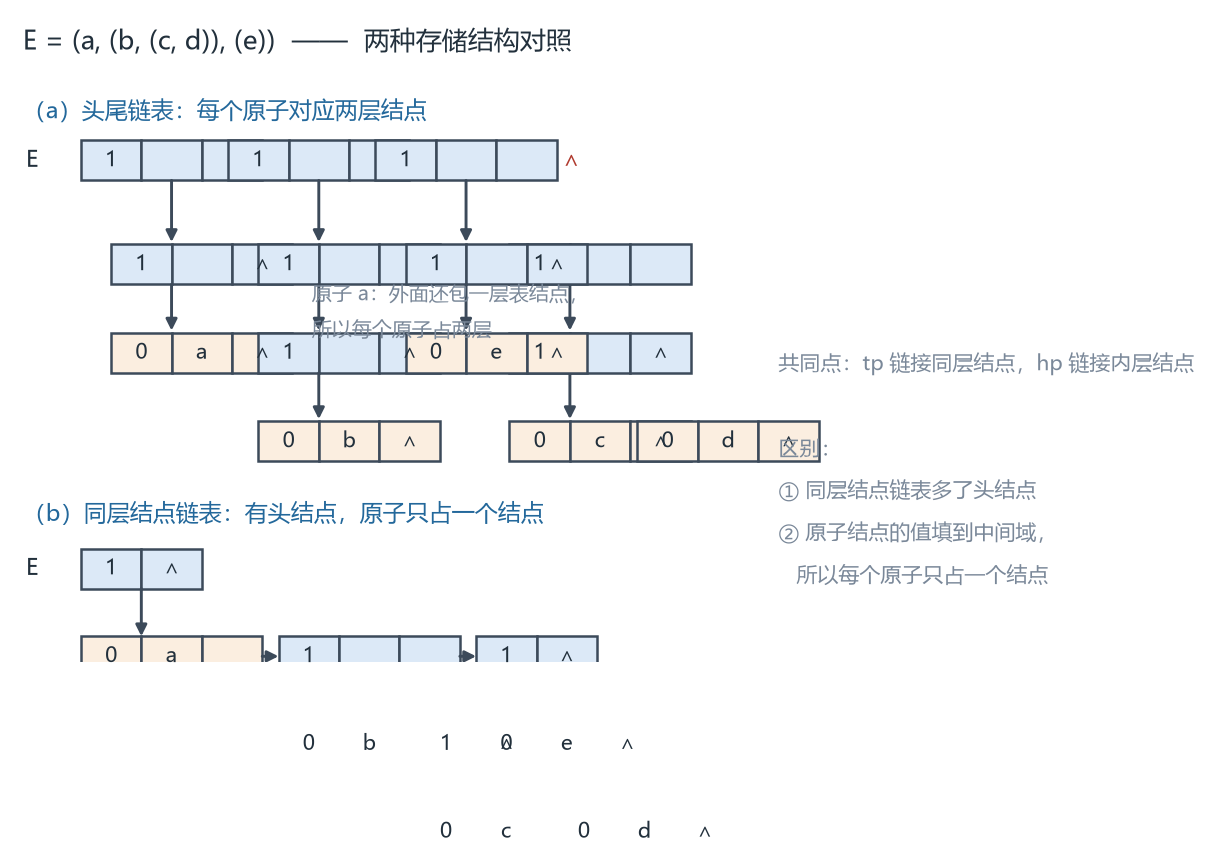
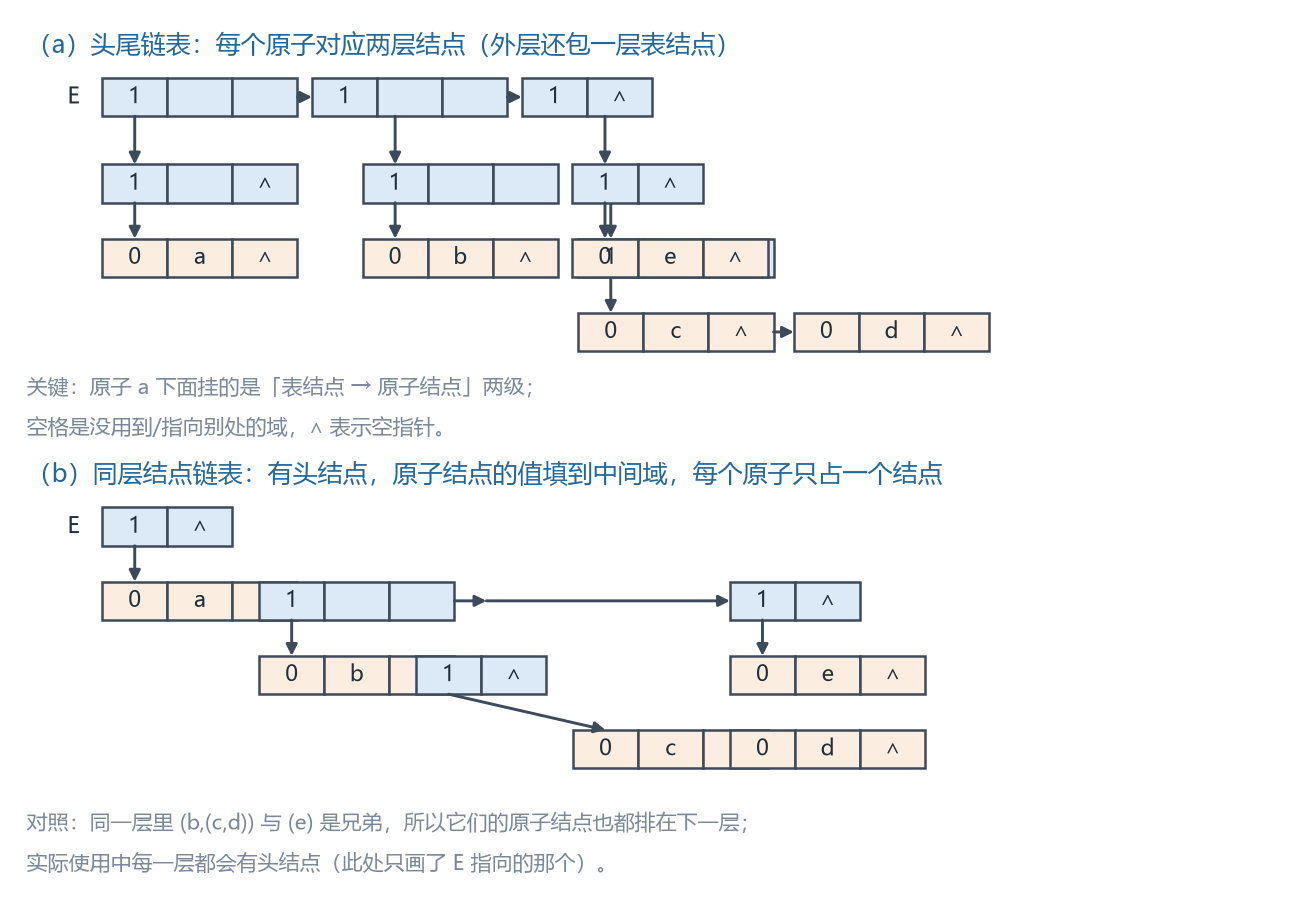
笔记自动备份: 2026-09-30 00:02:15

Changed region(s): [[0.0, 0.0303, 0.8569, 0.9697], [0.8569, 0.3939, 0.9793, 0.4545], [0.8263, 0.6667, 0.8569, 0.697]]

diff --git a/数据结构/imgs/make_figs.py b/数据结构/imgs/make_figs.py
@@ -579,111 +579,125 @@ def fig_fast_transpose():
 
 # --------------------------------------------- 图 10 广义表两种存储结构对照
 def fig_glist_two_storage():
-    fig, ax = plt.subplots(figsize=(9.6, 5.6), dpi=150)
-    ax.set_xlim(0, 14.4)
-    ax.set_ylim(0, 8.4)
+    """广义表 E = (a, (b, (c, d)), (e)) 的两种存储结构对照。
+
+    上排：头尾链表（每个原子占两层结点）
+    下排：同层结点链表（有头结点，原子占一个结点）
+    两排各自用独立的格点坐标，避免连线交叉。
+    """
+    fig, ax = plt.subplots(figsize=(11.0, 7.6), dpi=150)
+    ax.set_xlim(0, 22.0)
+    ax.set_ylim(-9.6, 4.6)
     ax.axis("off")
 
-    ax.text(0.1, 8.05, 'E = (a, (b, (c, d)), (e))  ——  两种存储结构对照',
-            ha="left", va="center", fontsize=12.5, color=C_TEXT)
+    W, H = 1.12, 0.62      # 单个格子的宽高
 
-    def node(x, y, cells, fc=C_EMP, w=0.78, h=0.52, fs=10):
-        for k, val in enumerate(cells):
-            _slot(ax, x + k * w, y, w, h, val, fc=fc, fs=fs)
-        return x + len(cells) * w
+    def cells(x, y, vals, fc=C_EMP, fs=10.5, hi=None):
+        """在 (x, y) 起画一排格子；hi 为需要高亮的列号集合。"""
+        for k, v in enumerate(vals):
+            f = C_FILL2 if (hi and k in hi) else fc
+            _slot(ax, x + k * W, y, W, H, v, fc=f, fs=fs)
+        return x + len(vals) * W
 
-    # ---------- 上：头尾链表 ----------
-    ax.text(0.1, 7.15, "（a）头尾链表：每个原子对应两层结点", ha="left",
-            va="center", fontsize=11, color=C_BASE)
-    # tag / hp / tp 三个格子
-    yA = 6.25
-    ax.text(0.14, yA + 0.26, "E", ha="left", va="center", fontsize=11,
+    def top(x, y, n):
+        return (x + n * W, y + H)
+
+    # =============================================== 上：头尾链表
+    ax.text(0.2, 4.1, "（a）头尾链表：每个原子对应两层结点（外层还包一层表结点）",
+            ha="left", va="center", fontsize=12, color=C_BASE)
+
+    # 顶层 E 的 tp 链：三个表结点 (hp 指向元素)
+    yA = 2.95
+    xa = cells(1.5, yA, ["1", "", ""], fc=C_FILL)
+    _arrow(ax, (xa, yA + H / 2), (xa + 0.25, yA + H / 2))
+    xb = cells(xa + 0.25, yA, ["1", "", ""], fc=C_FILL)
+    _arrow(ax, (xb, yA + H / 2), (xb + 0.25, yA + H / 2))
+    xc = cells(xb + 0.25, yA, ["1", "∧"], fc=C_FILL)
+    ax.text(0.9, yA + H / 2, "E", ha="left", va="center", fontsize=11,
             color=C_TEXT)
-    # 顶层三个表结点
-    xs = [0.85, 2.75, 4.65]
-    for k, x in enumerate(xs):
-        node(x, yA, ["1", "", ""], fc=C_FILL)
-        if k < 2:
-            _arrow(ax, (x + 3 * 0.78, yA + 0.26), (xs[k + 1], yA + 0.26))
-    ax.text(xs[2] + 3 * 0.78 + 0.08, yA + 0.26, "∧", ha="left",
-            va="center", fontsize=11, color=C_TOP)
 
-    # 第一层的原子 a：hp 下面是一个「表结点 + 原子结点」
-    xa = xs[0] + 0.78  # hp 格位置
-    _arrow(ax, (xa + 0.39, yA), (xa + 0.39, 5.45))
-    node(xa - 0.39, 4.9, ["1", "", "∧"], fc=C_FILL)
-    _arrow(ax, (xa + 0.39, 4.9), (xa + 0.39, 4.3))
-    node(xa - 0.39, 3.75, ["0", "a", "∧"], fc=C_FILL2)
-    ax.text(xa + 2.2, 4.55, "原子 a：外面还包一层表结点，\n所以每个原子占两层",
-            ha="left", va="center", fontsize=9.5, color=C_TXT2,
-            linespacing=1.7)
+    # 元素 a：hp 表结点 → 原子结点
+    y1 = 1.55
+    a1 = cells(1.5, y1, ["1", "", "∧"], fc=C_FILL)
+    y2 = 0.35
+    a2 = cells(1.5, y2, ["0", "a", "∧"], fc=C_FILL2)
+    _arrow(ax, (1.5 + W / 2, yA), (1.5 + W / 2, y1 + H))
+    _arrow(ax, (1.5 + W / 2, y1), (1.5 + W / 2, y2 + H))
 
-    # 第二层：b 与 (c,d) 的容器
-    xb = xs[1] + 0.78
-    _arrow(ax, (xb + 0.39, yA), (xb + 0.39, 5.45))
-    node(xb - 0.39, 4.9, ["1", "", ""], fc=C_FILL)
-    _arrow(ax, (xb + 0.39, 4.9), (xb + 0.39, 4.3))
-    node(xb - 0.39, 3.75, ["1", "", "∧"], fc=C_FILL)
-    _arrow(ax, (xb + 0.39, 3.75), (xb + 0.39, 3.15))
-    node(xb - 0.39, 2.6, ["0", "b", "∧"], fc=C_FILL2)
-    # (b,(c,d)) 的 tp → (c,d) 的容器
-    _arrow(ax, (xb - 0.39 + 3 * 0.78, 4.9 + 0.26), (xb + 2.85, 4.9 + 0.26))
-    node(xb + 2.85, 4.9, ["1", "", ""], fc=C_FILL)
-    _arrow(ax, (xb + 2.85 + 0.78, 4.9), (xb + 2.85 + 0.78, 4.3))
-    node(xb + 2.85, 3.75, ["1", "", "∧"], fc=C_FILL)
-    _arrow(ax, (xb + 2.85 + 0.78, 3.75), (xb + 2.85 + 0.78, 3.15))
-    node(xb + 2.85, 2.6, ["0", "c", "∧"], fc=C_FILL2)
-    _arrow(ax, (xb + 2.85 + 3 * 0.78, 2.6 + 0.26),
-           (xb + 4.5, 2.6 + 0.26))
-    node(xb + 4.5, 2.6, ["0", "d", "∧"], fc=C_FILL2)
+    # 元素 (b, (c, d))：hp 表结点 → [b / (c,d)]
+    x2 = xa + W     # 第二个顶层表结点的 hp 格
+    b1 = cells(x2, y1, ["1", "", ""], fc=C_FILL)
+    _arrow(ax, (x2 + W / 2, yA), (x2 + W / 2, y1 + H))
+    # 这一层里 b 与 (c,d) 并排
+    y3 = 0.35
+    b2 = cells(x2, y3, ["0", "b", "∧"], fc=C_FILL2)
+    _arrow(ax, (x2 + W / 2, y1), (x2 + W / 2, y3 + H))
+    x3 = b2 + 0.35
+    c1 = cells(x3, y3, ["1", "", ""], fc=C_FILL)
+    _arrow(ax, (b2 + W / 2, y1), (b2 + W / 2, y3 + H)) if False else None
+    _arrow(ax, (x3 + W / 2, y1), (x3 + W / 2, y3 + H))
+    y4 = -0.85
+    c2 = cells(x3, y4, ["0", "c", "∧"], fc=C_FILL2)
+    _arrow(ax, (x3 + W / 2, y3), (x3 + W / 2, y4 + H))
+    x4 = c2 + 0.35
+    d1 = cells(x4, y4, ["0", "d", "∧"], fc=C_FILL2)
+    _arrow(ax, (c2, y4 + H / 2), (x4, y4 + H / 2))
 
-    # 第三层 (e)
-    xe = xs[2] + 0.78
-    _arrow(ax, (xe + 0.39, yA), (xe + 0.39, 5.45))
-    node(xe - 0.39, 4.9, ["1", "", "∧"], fc=C_FILL)
-    _arrow(ax, (xe + 0.39, 4.9), (xe + 0.39, 4.3))
-    node(xe - 0.39, 3.75, ["0", "e", "∧"], fc=C_FILL2)
+    # 元素 (e)：hp 表结点 → 原子结点
+    y5 = 1.55
+    e1 = cells(xb + W, y5, ["1", "∧"], fc=C_FILL)
+    _arrow(ax, (xb + W + W / 2, yA), (xb + W + W / 2, y5 + H))
+    y6 = 0.35
+    e2 = cells(xb + W, y6, ["0", "e", "∧"], fc=C_FILL2)
+    _arrow(ax, (xb + W + W / 2, y5), (xb + W + W / 2, y6 + H))
 
-    ax.text(0.1, 1.92, "（b）同层结点链表：有头结点，原子只占一个结点",
-            ha="left", va="center", fontsize=11, color=C_BASE)
-
-    # ---------- 下：同层结点链表 ----------
-    yB = 0.95
-    ax.text(0.14, yB + 0.26, "E", ha="left", va="center", fontsize=11,
-            color=C_TEXT)
-    node(0.85, yB, ["1", "∧"], fc=C_FILL)      # 头结点
-    _arrow(ax, (0.85 + 0.78, yB), (0.85 + 0.78, yB - 0.62))
-    # 头结点下面一层：a → (b,(c,d)) → (e)
-    x2 = 0.85
-    node(x2, yB - 1.14, ["0", "a", ""], fc=C_FILL2)
-    _arrow(ax, (x2 + 3 * 0.78, yB - 1.14 + 0.26),
-           (x2 + 2.55, yB - 1.14 + 0.26))
-    node(x2 + 2.55, yB - 1.14, ["1", "", ""], fc=C_FILL)
-    _arrow(ax, (x2 + 2.55 + 3 * 0.78, yB - 1.14 + 0.26),
-           (x2 + 5.1, yB - 1.14 + 0.26))
-    node(x2 + 5.1, yB - 1.14, ["1", "∧"], fc=C_FILL)
-    # (b,(c,d)) 的 hp → b / (c,d)
-    _arrow(ax, (x2 + 2.55 + 0.78, yB - 1.14), (x2 + 2.55 + 0.78, yB - 1.76))
-    node(x2 + 2.55, yB - 2.28, ["0", "b", ""], fc=C_FILL2)
-    _arrow(ax, (x2 + 2.55 + 3 * 0.78, yB - 2.28 + 0.26),
-           (x2 + 4.32, yB - 2.28 + 0.26))
-    node(x2 + 4.32, yB - 2.28, ["1", "∧"], fc=C_FILL)
-    _arrow(ax, (x2 + 4.32 + 0.78, yB - 2.28), (x2 + 4.32 + 0.78, yB - 2.9))
-    node(x2 + 4.32, yB - 3.42, ["0", "c", ""], fc=C_FILL2)
-    _arrow(ax, (x2 + 4.32 + 3 * 0.78, yB - 3.42 + 0.26),
-           (x2 + 6.1, yB - 3.42 + 0.26))
-    node(x2 + 6.1, yB - 3.42, ["0", "d", "∧"], fc=C_FILL2)
-    # (e)
-    _arrow(ax, (x2 + 5.1 + 0.78, yB - 1.14), (x2 + 5.1 + 0.78, yB - 1.76))
-    node(x2 + 5.1, yB - 2.28, ["0", "e", "∧"], fc=C_FILL2)
-
-    ax.text(9.85, 2.5,
-            "共同点：tp 链接同层结点，hp 链接内层结点\n\n"
-            "区别：\n"
-            "① 同层结点链表多了头结点\n"
-            "② 原子结点的值填到中间域，\n   所以每个原子只占一个结点",
+    ax.text(0.2, -1.75,
+            "关键：原子 a 下面挂的是「表结点 → 原子结点」两级；\n"
+            "空格是没用到/指向别处的域，∧ 表示空指针。",
             ha="left", va="center", fontsize=10, color=C_TXT2,
-            linespacing=1.9)
+            linespacing=1.8)
+
+    # =============================================== 下：同层结点链表
+    ax.text(0.2, -2.85,
+            "（b）同层结点链表：有头结点，原子结点的值填到中间域，每个原子只占一个结点",
+            ha="left", va="center", fontsize=12, color=C_BASE)
+
+    # 用固定列坐标排布：第 n 列的 x
+    COL = {1: 1.5, 2: 4.2, 3: 6.9, 4: 9.6, 5: 12.3, 6: 15.0, 7: 17.7}
+
+    yB = -4.0
+    cells(COL[1], yB, ["1", "∧"], fc=C_FILL)                    # 头结点
+    ax.text(0.9, yB + H / 2, "E", ha="left", va="center", fontsize=11,
+            color=C_TEXT)
+
+    y7 = -5.2
+    e1 = cells(COL[1], y7, ["0", "a", ""], fc=C_FILL2)          # 原子 a
+    _arrow(ax, (COL[1] + W / 2, yB), (COL[1] + W / 2, y7 + H))
+    _arrow(ax, (e1, y7 + H / 2), (COL[2], y7 + H / 2))
+    e2 = cells(COL[2], y7, ["1", "", ""], fc=C_FILL)            # (b,(c,d)) 容器
+    _arrow(ax, (e2, y7 + H / 2), (e2 + 0.55, y7 + H / 2))
+    _arrow(ax, (e2 + 0.55, y7 + H / 2), (COL[5], y7 + H / 2))
+    e3 = cells(COL[5], y7, ["1", "∧"], fc=C_FILL)               # (e) 容器
+
+    y8 = -6.4
+    f1 = cells(COL[2], y8, ["0", "b", ""], fc=C_FILL2)          # 原子 b
+    _arrow(ax, (COL[2] + W / 2, y7), (COL[2] + W / 2, y8 + H))
+    _arrow(ax, (f1, y8 + H / 2), (COL[3], y8 + H / 2))
+    f2 = cells(COL[3], y8, ["1", "∧"], fc=C_FILL)               # (c,d) 容器
+    g3 = cells(COL[5], y8, ["0", "e", "∧"], fc=C_FILL2)         # 原子 e
+    _arrow(ax, (COL[5] + W / 2, y7), (COL[5] + W / 2, y8 + H))
+
+    y9 = -7.6
+    h1 = cells(COL[4], y9, ["0", "c", ""], fc=C_FILL2)          # 原子 c
+    _arrow(ax, (COL[3] + W / 2, y8), (COL[4] + W / 2, y9 + H))
+    _arrow(ax, (h1, y9 + H / 2), (COL[5], y9 + H / 2))
+    h2 = cells(COL[5], y9, ["0", "d", "∧"], fc=C_FILL2)         # 原子 d
+
+    ax.text(0.2, -8.8,
+            "对照：同一层里 (b,(c,d)) 与 (e) 是兄弟，所以它们的原子结点也都排在下一层；\n"
+            "实际使用中每一层都会有头结点（此处只画了 E 指向的那个）。",
+            ha="left", va="center", fontsize=10, color=C_TXT2,
+            linespacing=1.8)
 
     fig.savefig(os.path.join(OUT, "ch5-5-广义表两种存储结构.png"),
                 bbox_inches="tight", facecolor="white")

diff --git a/数据结构/数据结构.md b/数据结构/数据结构.md
@@ -2430,6 +2430,8 @@ Status FastTransposeSMatrix(TSMatrix M, TSMatrix &T) {
 > 1. $num[col]$ 统计的是 **$M$ 的每列**（不是行！）非零元个数 —— 因为 $M$ 的列就是 $T$ 的行，而 $T$ 是行优先存储的
 > 2. $cpot[col]$ 求出来只是**起始位置**，每填入一个元素必须 `++cpot[col]`，否则同一列的多个元素会互相覆盖
 
+![](imgs/ch5-3-2-快速转置的num和cpot.png)
+
 **2. 行逻辑链接的三元组顺序表**
 
 把上述方法二中的辅助向量 $cpot[\ ]$ 固定在稀疏矩阵的三元组表中，用来指示「行」的信息，就得到另一种顺序存储结构：**行逻辑链接的三元组顺序表**。
@@ -2689,6 +2691,8 @@ typedef struct GLNode {
 > 2. **原子结点的值填写到中间域**（原子结点与表结点一样都带 $tp$）
 >
 > **共同点**：$tp$ 链接同层结点；$hp$ 链接内层结点。
+
+![](imgs/ch5-5-广义表两种存储结构.png)
 
 以 $E = (a, (b, (c, d)), (e))$ 为例，画存储结构图可以分三步：
 
